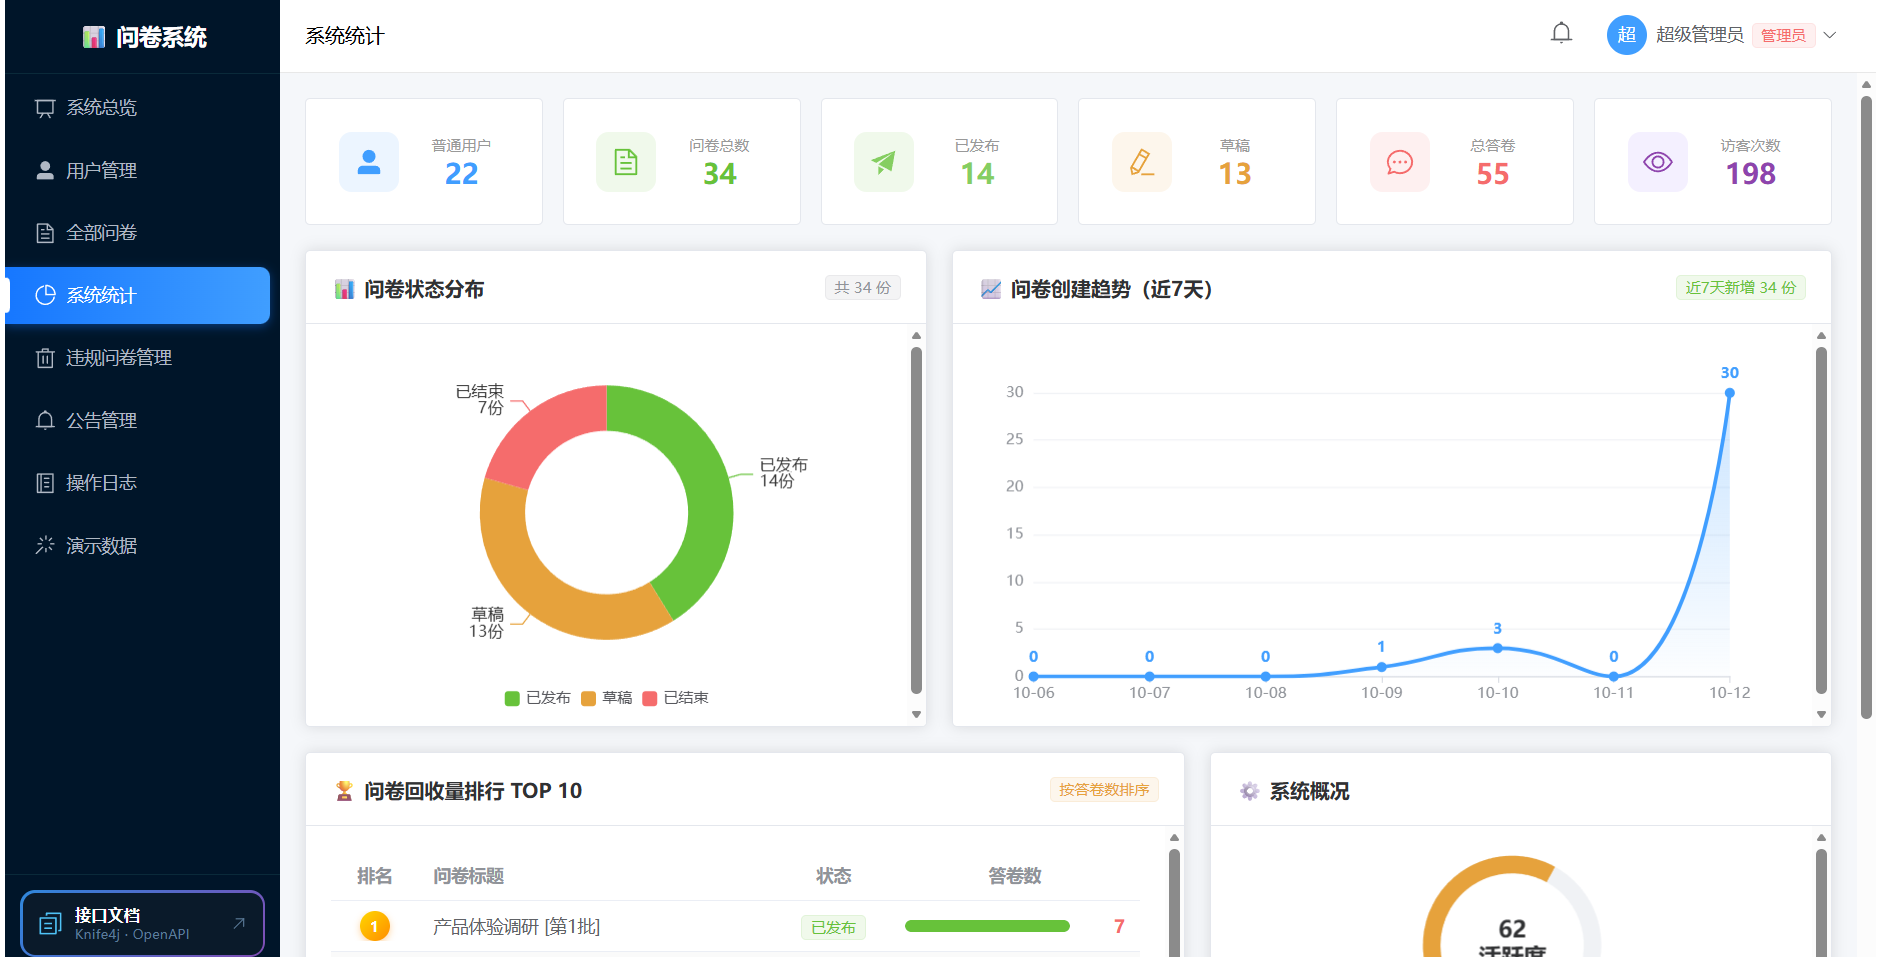
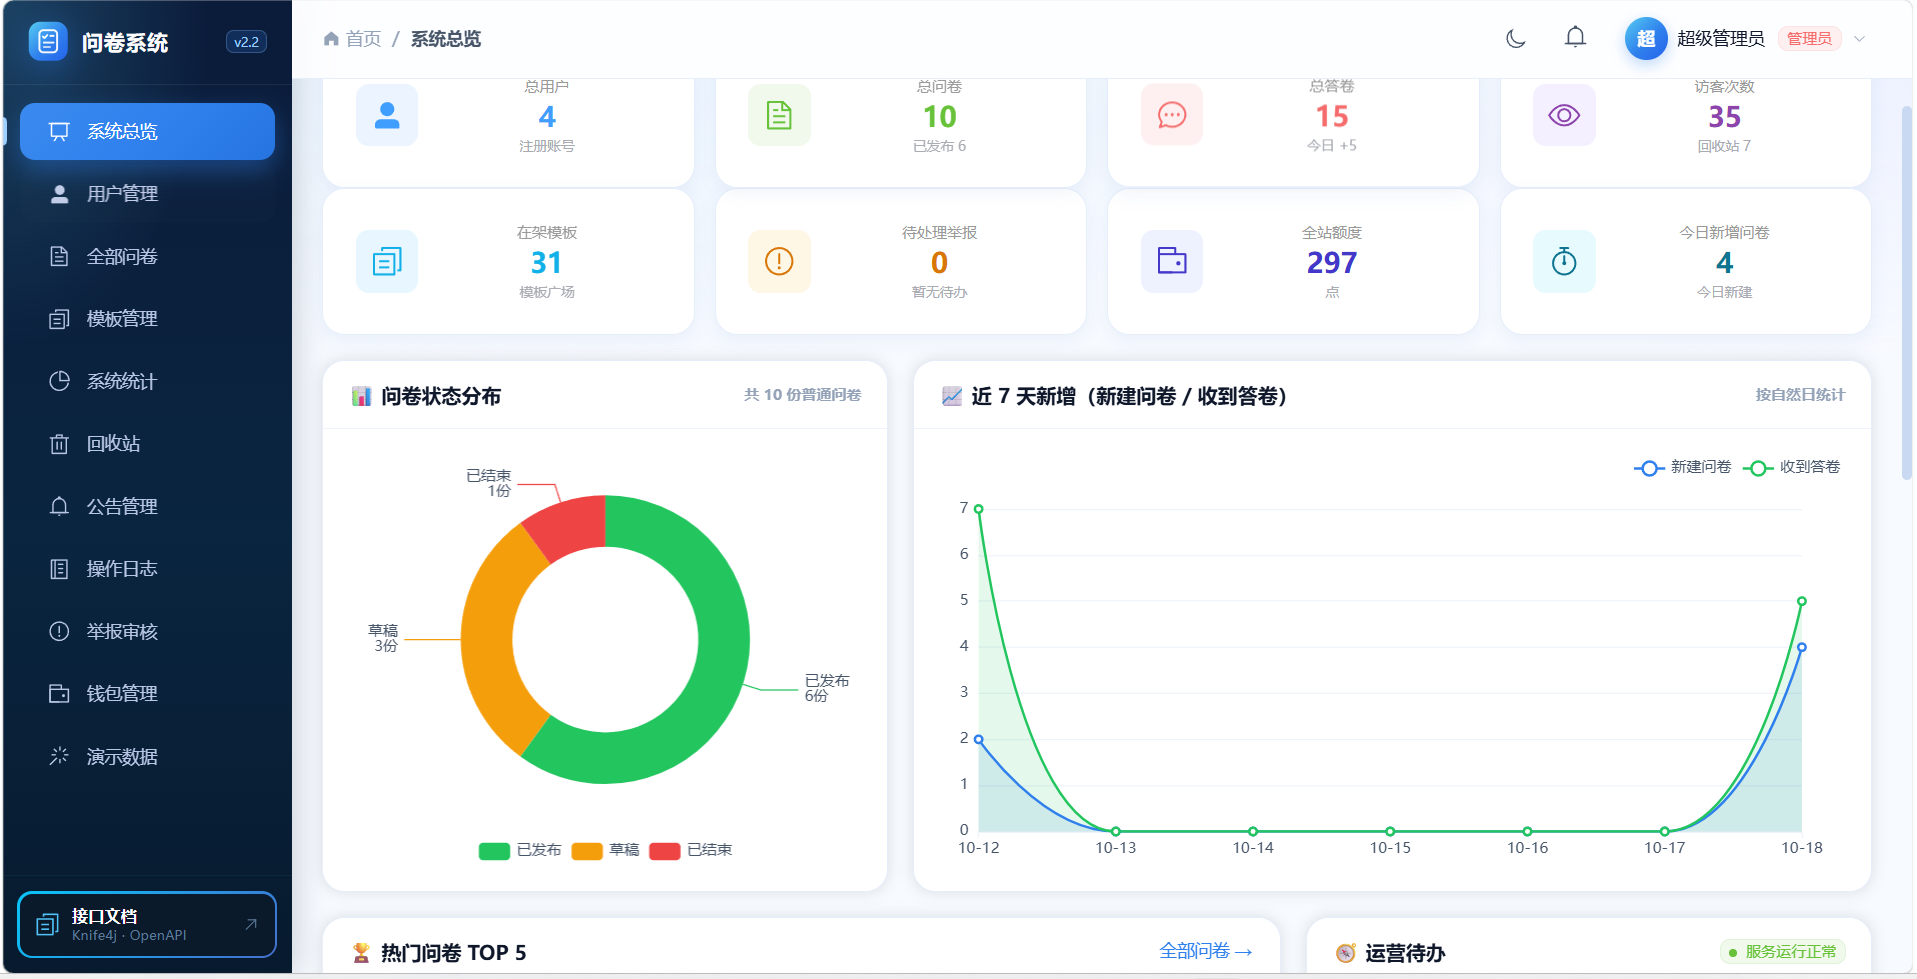
docs: 界面截图全部换成当前版本（9 张）
旧截图是 10-12 的，之后项目变化太大：运营驾驶舱、G3 批量治理、
用户三分类与禁用、矩阵/排序/NPS 题型、全屏编辑器、钱包/模板/举报审核、
公开结果页 —— 旧图已经描述不了现在的产品。

新增 2 张：
- admin-surveys.PNG  全部问卷：勾选后的批量操作条 + 时间筛选 + 列设置 + 导出
- admin-users.PNG    用户管理：在用 / 已禁用 / 已注销三分类 + 禁用状态

同时把「界面截图」整节的标题与说明文案重写，改成讲**当前实现**：
- 管理员看板 -> 系统总览（运营驾驶舱）：8 指标 + 双趋势 + TOP5 + 待办
- 问卷编辑器 -> 全屏 + 左侧题型面板：十种题型、跳转存真 id、版本回滚
- 数据统计 -> 加了"答卷质控"：可疑样本只打标不删除、可开关剔除
- 登录 -> 补一句"登出精确吊销这一枚 refresh token"（B5 修复后的行为）

9 张图都已核对存在（README 引用 0 缺失），目录总大小 3.3 MB。

diff --git a/README.md b/README.md
@@ -479,37 +479,47 @@ IdeaProjects/
 ### 登录页
 ![登录页](docs/screenshots/login.PNG)
 
-账号 + 密码登录，配合"记住我"下发 7 天 refresh token；登录失败只给统一文案（不区分账号不存在与密码错误），避免账号探测。
+账号 + 密码登录，配合"记住我"下发 7 天 refresh token；登录失败只给统一文案（不区分账号不存在与密码错误），避免账号探测。★ 登出会**精确吊销这一枚** refresh token（其它设备不受影响），而不带 token 的登出会吊销该用户全部。
 
 ### 注册页（含滑块验证码）
 ![注册页](docs/screenshots/register.PNG)
 
 注册需填写账号、密码、昵称与手机号，并**先通过滑块验证码**才能提交；账号限定 4~20 位字母数字，密码 6~20 位。滑块由后端出题与判定（凭证 60 秒过期、一次性使用），注册页因此不需要登录态。
 
-### 管理员看板
-![管理员看板](docs/screenshots/admin-dashboard.PNG)
+### 系统总览（运营驾驶舱）
+![系统总览](docs/screenshots/admin-dashboard.PNG)
 
-系统总览：用户数、问卷数、答卷量等关键指标一屏汇总，是进入治理后台（用户管理、公告、操作日志、异常日志、限流状态）的入口。
+8 个**真实指标**（总用户 / 总问卷 / 总答卷 / 访客次数 / 在架模板 / 待处理举报 / 全站额度 / 今日新增）+ 问卷状态分布 + 近 7 天"新建问卷 / 收到答卷"双折线 + 热门问卷 TOP5 + 运营待办直达。数据全部来自单条聚合 SQL（无 N+1），今日趋势按自然日补齐 7 天。
 
-### 问卷编辑器（含逻辑跳转）
+### 全部问卷（多选批量治理）
+![全部问卷](docs/screenshots/admin-surveys.PNG)
+
+勾选多行后浮出**批量操作条**（批量移入回收站），配合创建时间范围筛选、列设置（本地记忆）与导出 Excel。批量动作是**逐条调单条端点**（`allSettled`）—— 能精确回报"哪几份成功、哪几份为什么失败"，而不是整批回滚；导出走后端 EasyExcel，上限 1 万行且**超出明确拒绝**（不静默截断）。
+
+### 用户管理（在用 / 已禁用 / 已注销）
+![用户管理](docs/screenshots/admin-users.PNG)
+
+三个分类视图，列表**含管理员**，支持角色筛选与批量禁用/解禁/删除/恢复。禁用是独立于"注销"的处置：写 `t_user.disabled` 的**同时**推进 `token_valid_after`，所以**瞬间生效**（不是等 12 小时）；保护规则是"不能禁用自己"与"不能禁用最后一个**可用**管理员"（`countActiveAdmins()`，不是 `countAdmins()`）。
+
+### 问卷编辑器（全屏 + 左侧题型面板）
 ![问卷编辑器](docs/screenshots/survey-edit.PNG)
 
-题目与选项动态增删调整，支持单选、多选、下拉、单行/多行文本、评分、日期、矩阵、排序、NPS 十种题型；每道题可配置**逻辑跳转**——某选项跳到指定题号，条件存真实 `question.id`，删题或调序都不会错位。
+左侧题型面板直接拖入，右侧编辑题目与选项；支持单选、多选、下拉、单行/多行文本、评分、日期、矩阵、排序、NPS 等题型（矩阵/排序/NPS 属进阶题型包）。每道题可配置**逻辑跳转**——条件存真实 `question.id`，删题或调序都不会错位；另有历史版本 / 对比 / 回滚。
 
-### 数据统计
+### 数据统计（含答卷质控）
 ![数据统计](docs/screenshots/statistics.PNG)
 
-单题分布用饼图 / 柱状图呈现，填空题以文本列表展示原文，另有答卷列表与详情；数据可一键导出 Excel（中文文件名按 RFC 5987 编码，下载不乱码）。
+顶部四个指标（回收答卷 / 题目数量 / **可疑样本** / 计入统计），可按开关把可疑样本剔除后再统计；可疑样本由四条规则打标（答题过快 / 直线作答 / 答案不在选项里 / 同题干矛盾），**只打标不删除**。图表之外还有答卷列表、单份详情、分享报告与导出 Excel（中文文件名按 RFC 5987 编码，下载不乱码）。
 
 ### AI 生成问卷
 ![AI生成](docs/screenshots/ai-generate.PNG)
 
-输入一句话描述，由 Qwen2.5-7B-Instruct（硅基流动）生成完整问卷，题干、选项、题型一并给出，生成后可直接进入编辑器继续调整；接口按"1 次/30 秒/用户"限流，防止真实计费的调用被脚本刷爆。
+输入一句话描述，由 Qwen（硅基流动）生成完整问卷，题干、选项、题型一并给出，生成后可直接进入编辑器继续调整；接口按"1 次/30 秒/用户"限流，防止真实计费的调用被脚本刷爆。
 
 ### 接口文档
 ![接口文档](docs/screenshots/api-doc.PNG)
 
-Knife4j（OpenAPI 3）在线文档，覆盖全部 98 个方法级端点；文档路径由独立 `doc_token` Cookie 保护（HttpOnly + SameSite=Strict，`scope=doc` 与 `role=admin` 双校验），非管理员访问返回 403。
+Knife4j（OpenAPI 3）在线文档，覆盖全部 **98** 个方法级端点；文档路径由独立 `doc_token` Cookie 保护（HttpOnly + SameSite=Strict，`scope=doc` 与 `role=admin` 双校验），非管理员访问返回 403。
 
 ---
 
